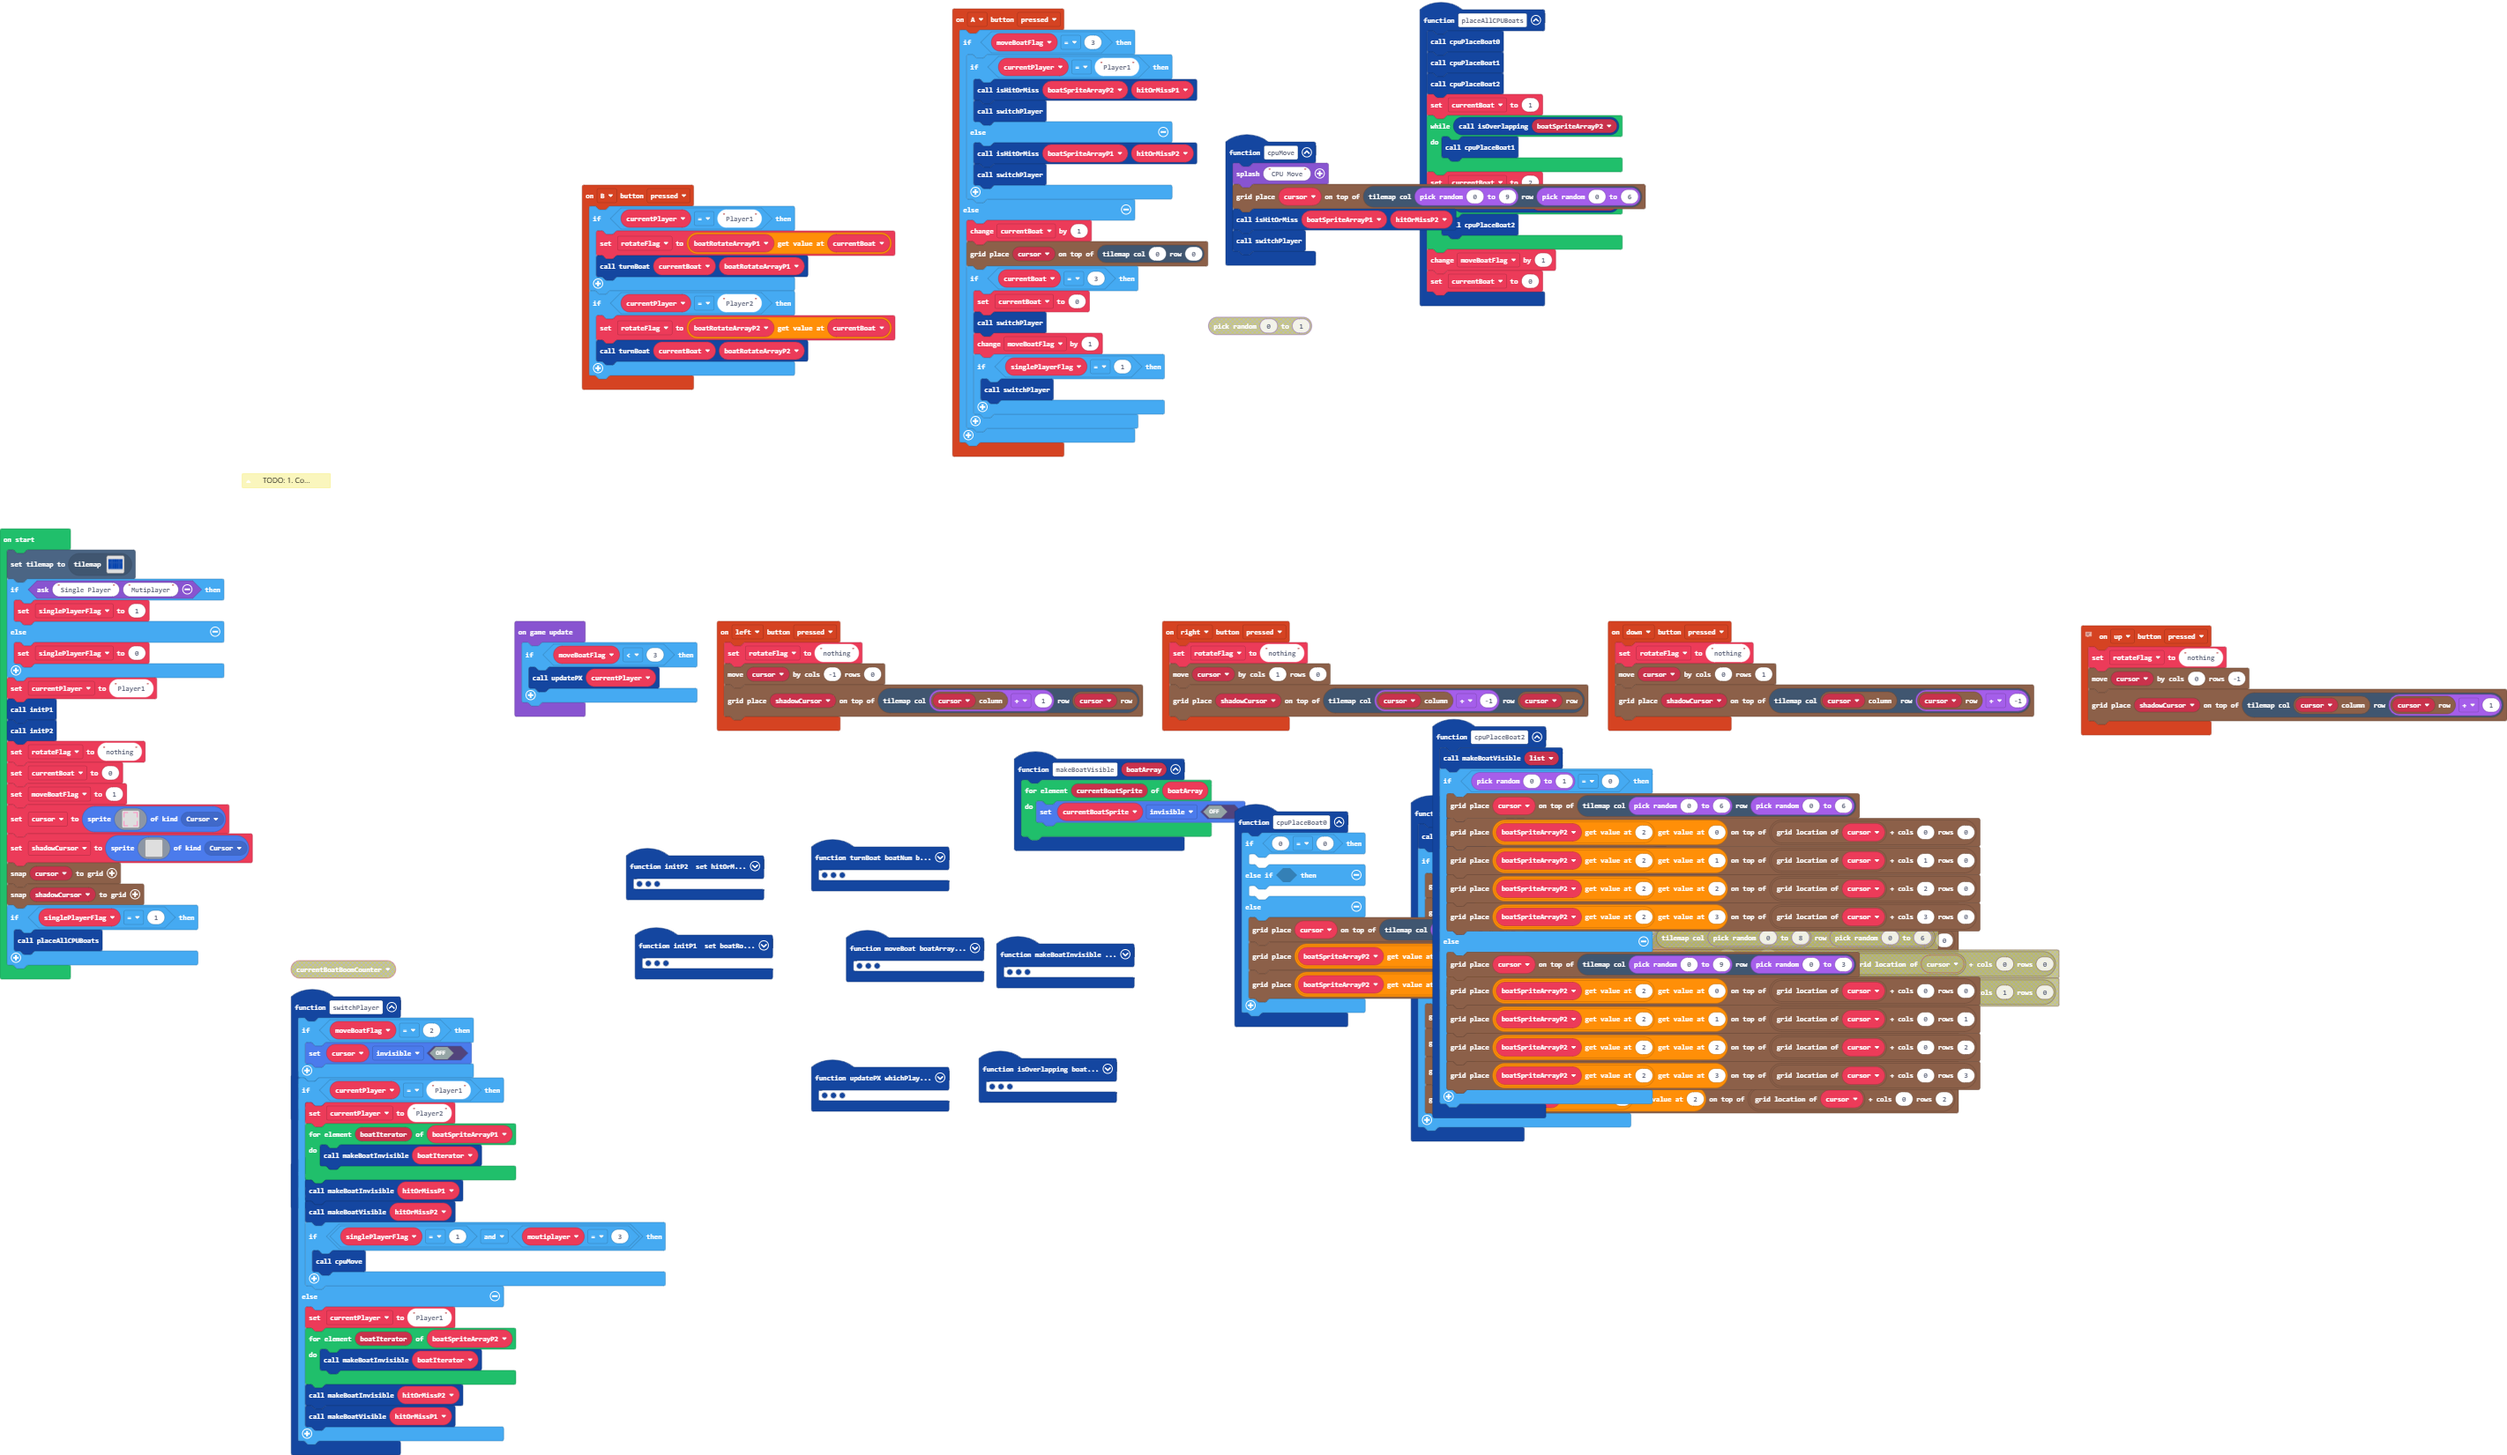
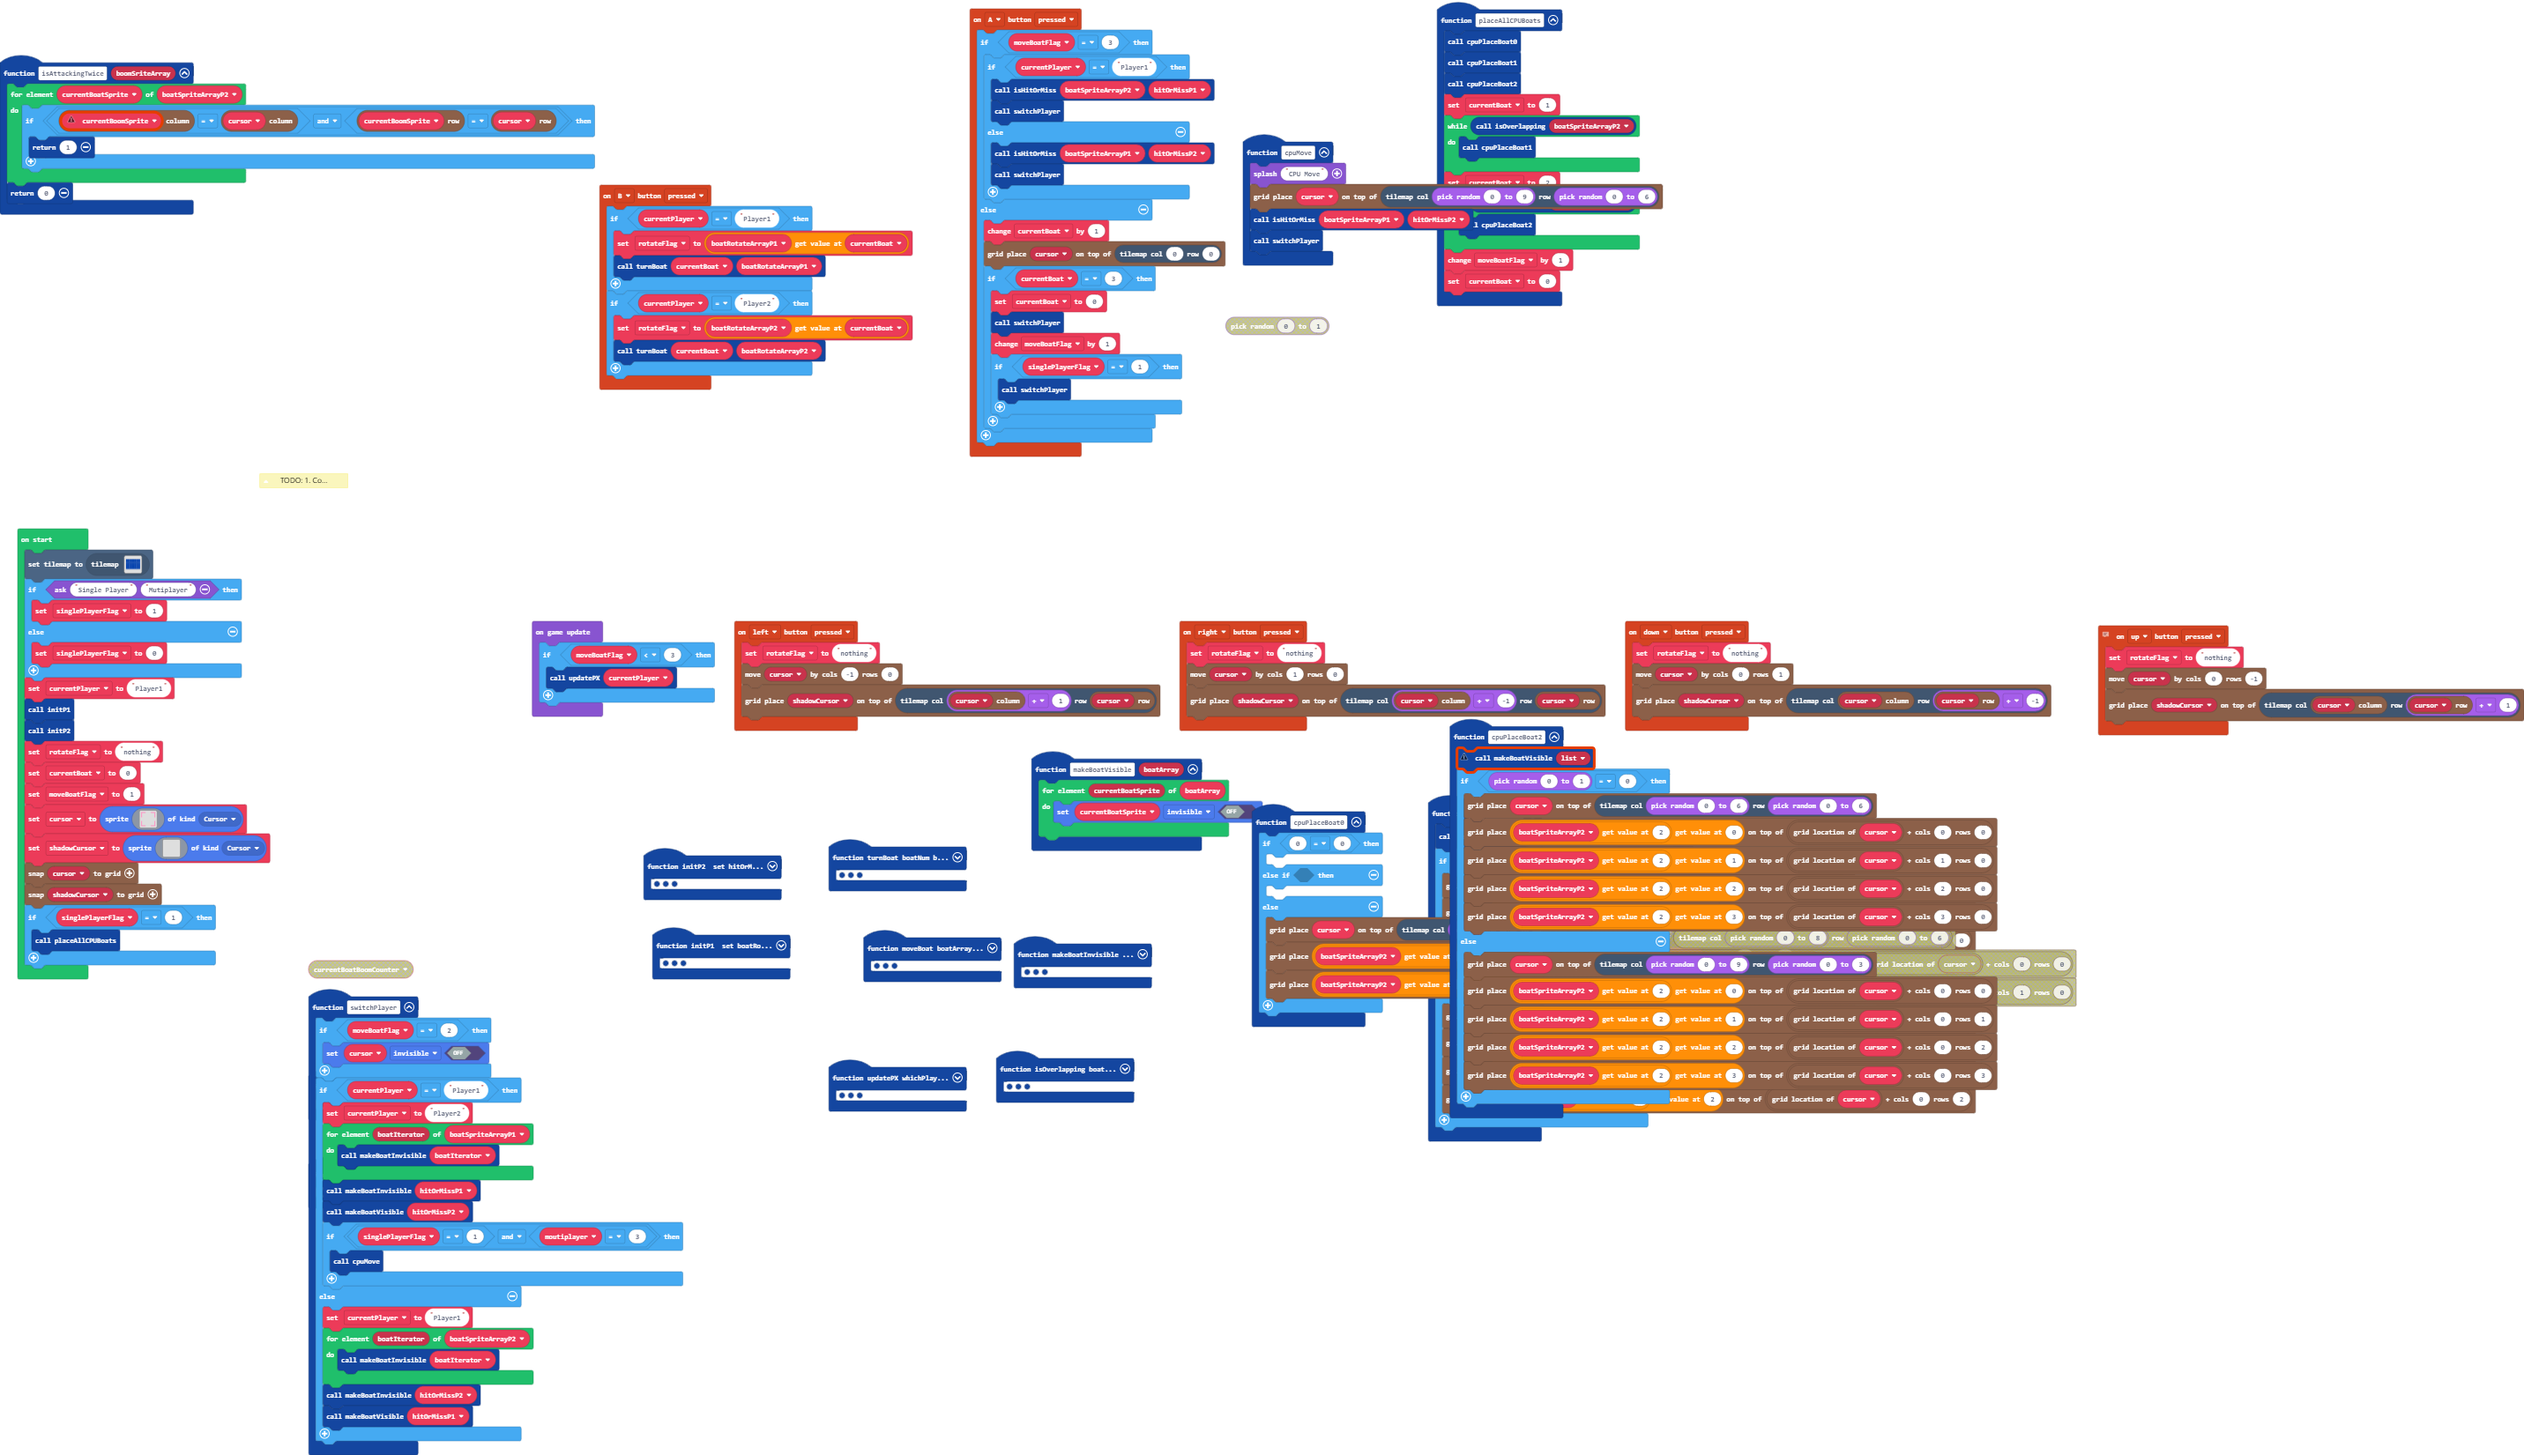
yeah

diff --git a/main.ts b/main.ts
@@ -437,6 +437,15 @@ function cpuPlaceBoat1 () {
         grid.place(boatSpriteArrayP2[1][2], grid.add(grid.getLocation(cursor), 0, 2))
     }
 }
+function isAttackingTwice (boomSriteArray: any[]) {
+    for (let currentBoatSprite of boatSpriteArrayP2) {
+        let currentBoomSprite: Sprite = null
+        if (grid.spriteCol(currentBoomSprite) == grid.spriteCol(cursor) && grid.spriteRow(currentBoomSprite) == grid.spriteRow(cursor)) {
+            return 1
+        }
+    }
+    return 0
+}
 function initP2 () {
     hitOrMissP2 = [sprites.create(img`
         . . . . . . . . . . . . . . . . 
